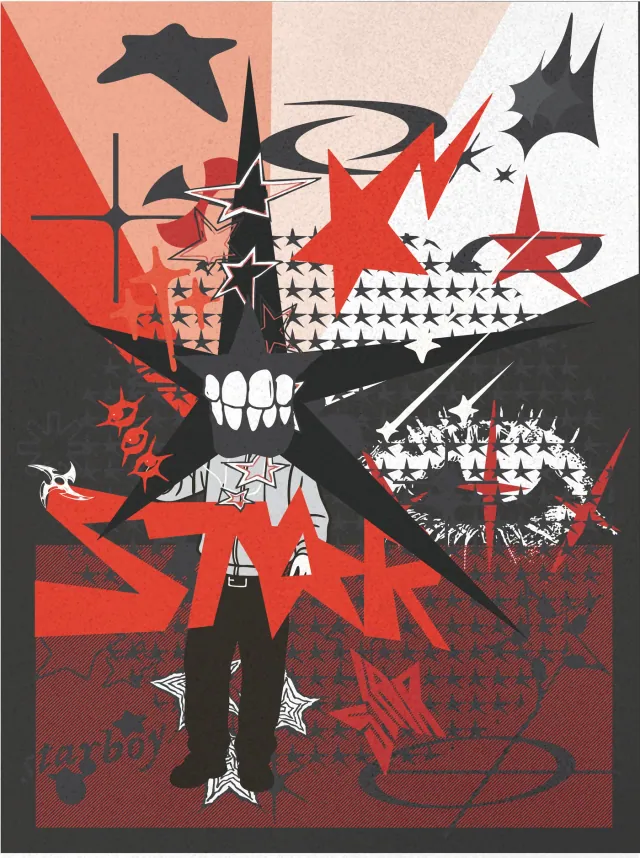
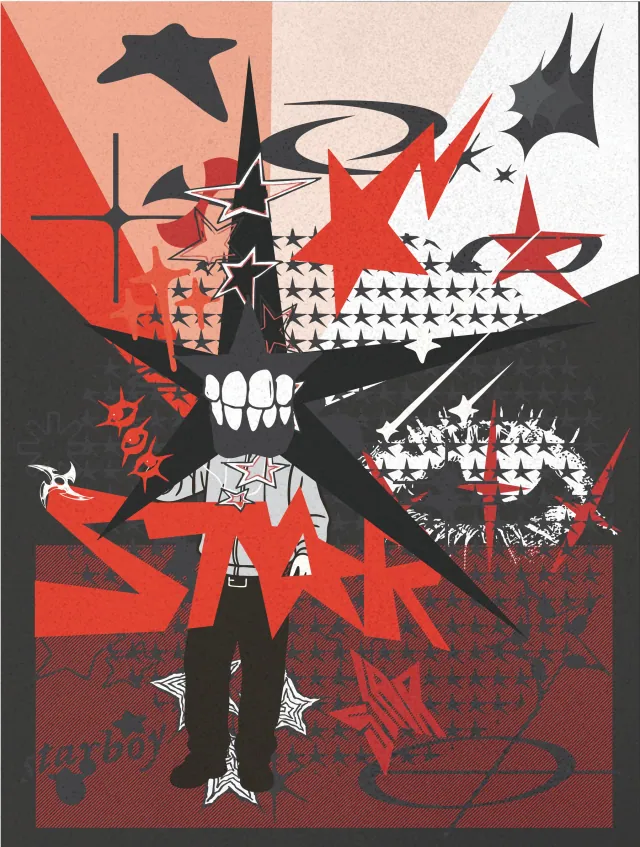
Refactor code structure for improved readability and maintainability

diff --git a/src/data/projects.ts b/src/data/projects.ts
@@ -62,8 +62,8 @@ export const projects: Project[] = [
     kind: "case",
     where: { en: "Streetwear collection for Soudesune, a YF Agency label.", fr: "Collection streetwear pour Soudesune, un label de YF Agency.", nl: "Streetwearcollectie voor Soudesune, een label van YF Agency." },
     roles: { en: "Direction, identity, typeface, film", fr: "Direction, identité, typographie, film", nl: "Regie, identiteit, lettertype, film" },
-    cover: i("star/loop-poster.webp", { en: "Still from the STAR brand film", fr: "Image du film de marque STAR", nl: "Beeld uit de STAR-merkfilm" }),
-    preview: { video: "star/loop.mp4", image: "star/loop-poster.webp" },
+    cover: i("star/cover.webp", { en: "The STAR sketchbook held open in front of the face", fr: "Le carnet STAR tenu ouvert devant le visage", nl: "Het STAR-schetsboek open voor het gezicht" }),
+    preview: { image: "star/cover.webp" },
     hero: { video: "star/loop.mp4", poster: "star/loop-poster.webp", nameFont: "star" },
     tag: { en: "Creative direction, identity and film", fr: "Direction créative, identité et film", nl: "Creatieve regie, identiteit en film" },
     year: "2025",
